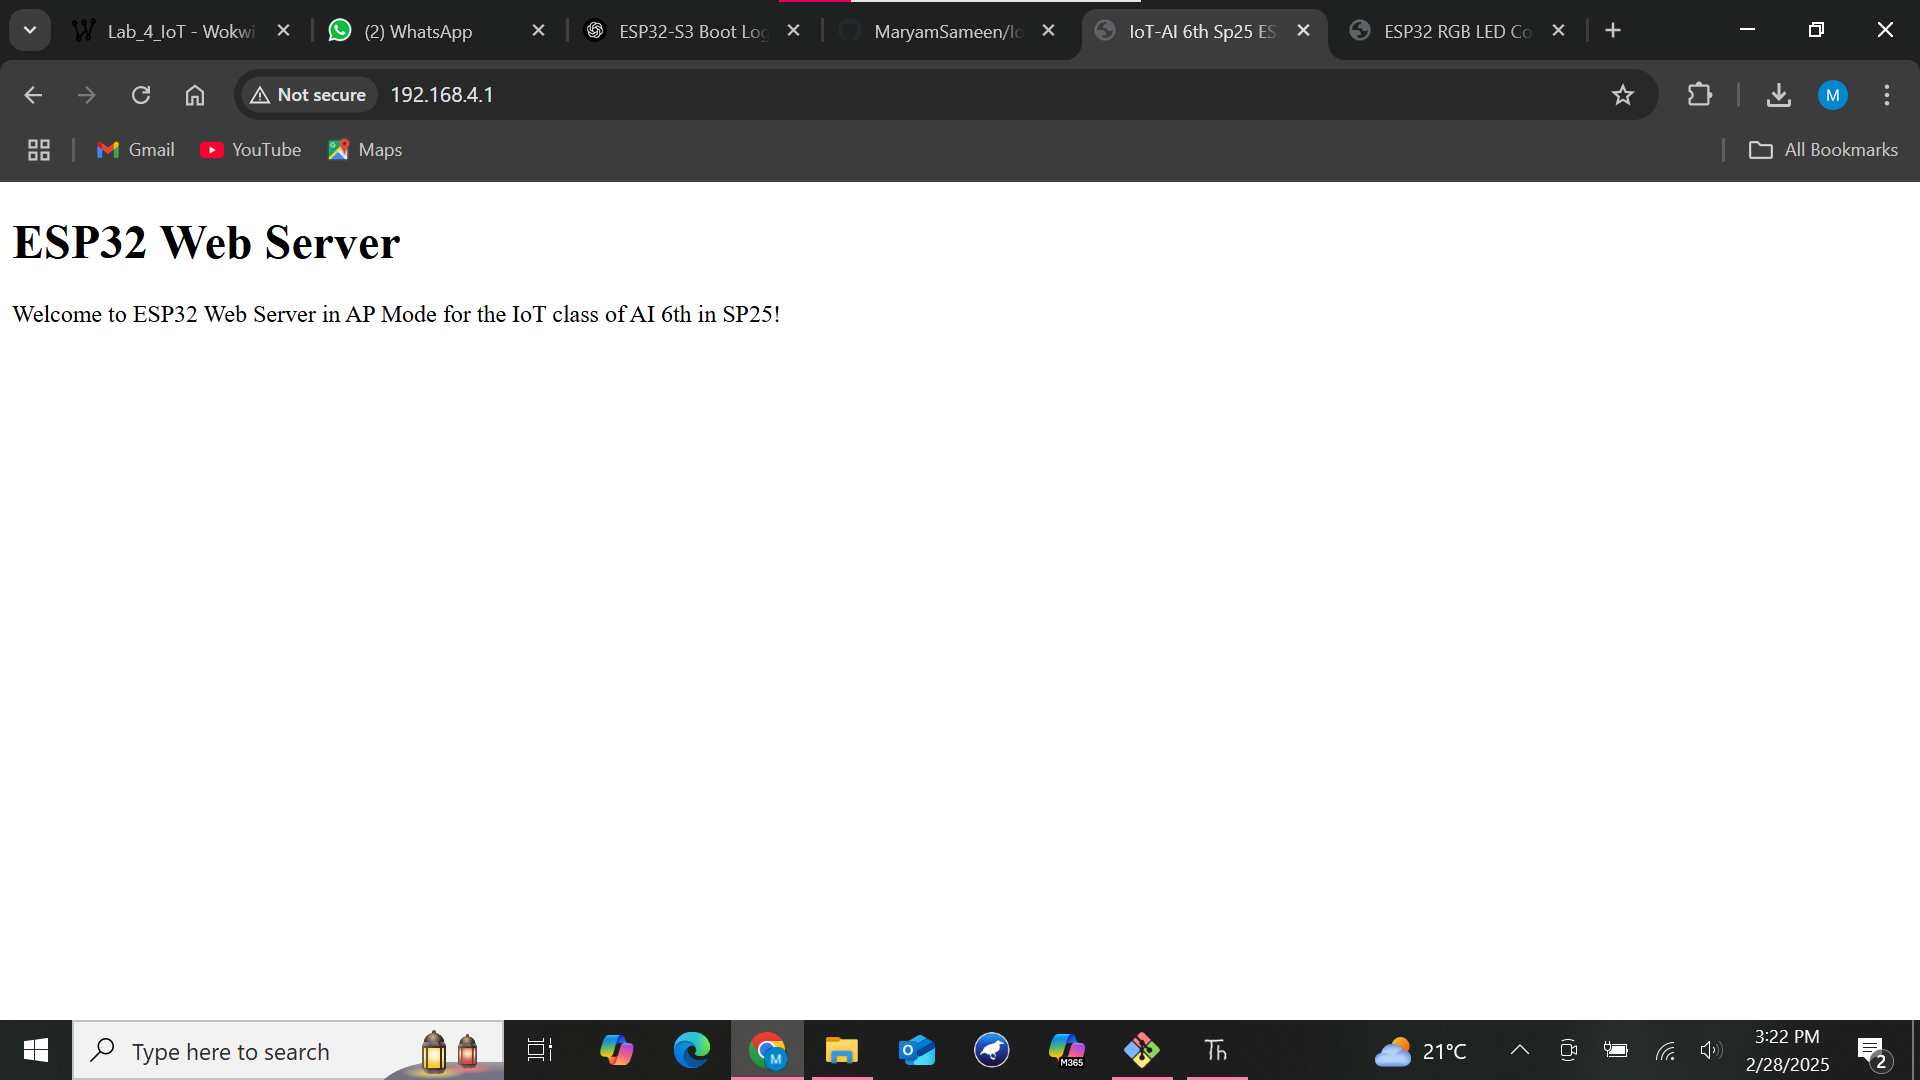
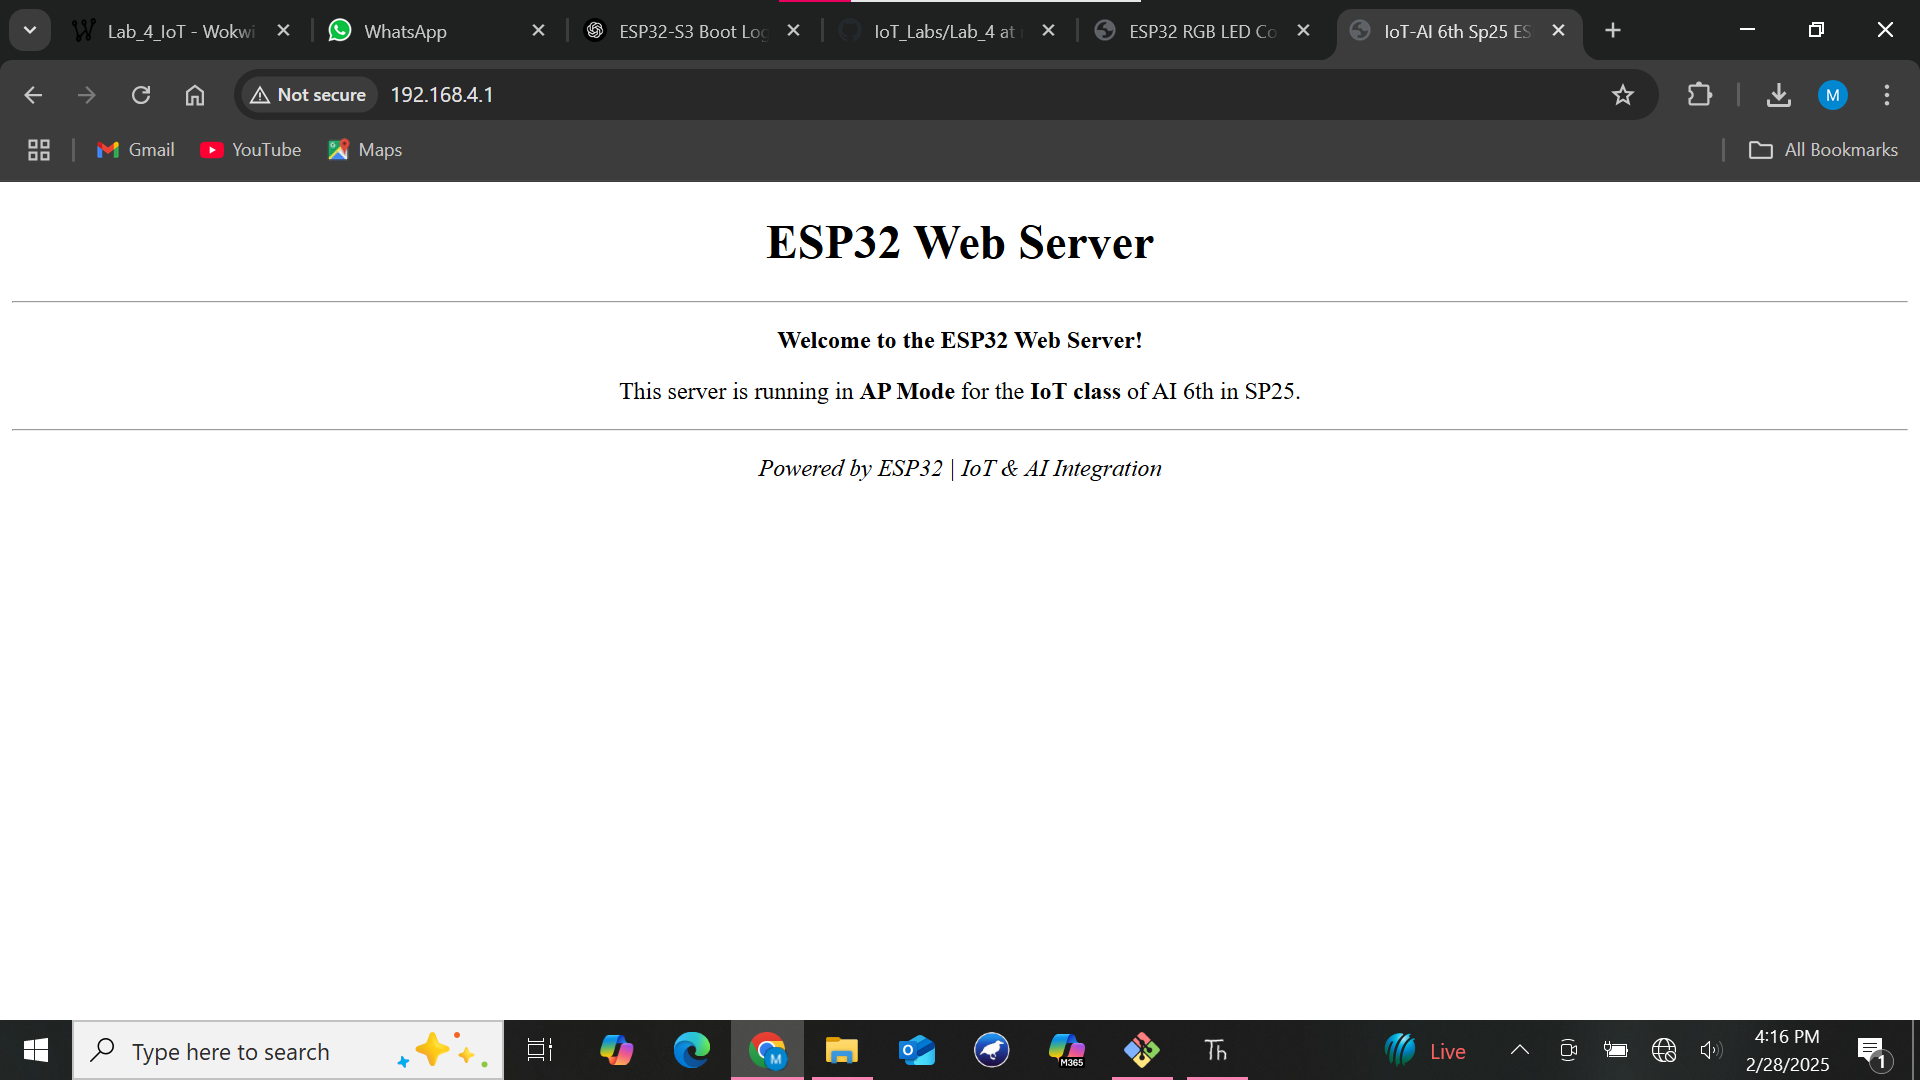
Added Screenshot of rgb_web and run the code

diff --git a/Lab_4/rgb-web.py b/Lab_4/rgb-web.py
@@ -1,3 +1,5 @@
+print("Hello, Maryam!")
+
 import network
 import socket
 import time
@@ -17,44 +19,62 @@ sta.connect(ssid, password)
 while not sta.isconnected():
     time.sleep(1)
 
-print("Connected! IP:", sta.ifconfig()[0])
+print("Connected!Your IP Address to Browse is:", sta.ifconfig()[0])
 
 # Start Web Server
 def web_page():
     html = """<!DOCTYPE html>
     <html>
-    <head><title>ESP32 RGB LED Control</title></head>
+    <head>
+    <title>ESP32 RGB LED Control System</title>
+    </head>
     <body>
-    <h1>ESP32 RGB led Control</h1>
-    <p><a href="/?RGB=red"><button>Turn RGB RED</button></a></p>
-    <p><a href="/?RGB=green"><button>Turn RGB GREEN</button></a></p>
-    <p><a href="/?RGB=blue"><button>Turn RGB BLUE</button></a></p>
+
+    <h1 style="text-align: center;">ESP32 RGB LED Control System</h1>
+    <hr>
+
+    <p style="text-align: center;"><b>Click a button to change the LED color:</b></p>
+
+    <div style="text-align: center;">
+        <p><a href="/?RGB=red"><button>Turn On RED Light</button></a></p>
+        <p><a href="/?RGB=green"><button>Turn On GREEN Light</button></a></p>
+        <p><a href="/?RGB=blue"><button>Turn On BLUE Light</button></a></p>
+    </div>
+
+    <hr>
+    <p style="text-align: center;"><i>ESP32 Web Controlled RGB LED</i></p>
+
     </body>
-    </html>"""
+    </html>
+     """
     return html
 
-s = socket.socket(socket.AF_INET, socket.SOCK_STREAM)
-s.bind((sta.ifconfig()[0], 80))
-s.listen(5)
+soc = socket.socket(socket.AF_INET, socket.SOCK_STREAM)
+soc.bind((sta.ifconfig()[0], 80))
+soc.listen(5)
 
 while True:
-    conn, addr = s.accept()
+    conn, addr = soc.accept()
     print("Connection from:", addr)
     request = conn.recv(1024).decode()
     print("Request:", request)
     
     if "/?RGB=red" in request:
         neo[0] = (255, 0, 0) # set the first pixel to red
-        neo.write()              # write data to all pixels
+        neo.write()              
     elif "/?RGB=green" in request:
         neo[0] = (0, 255, 0) # set the first pixel to green
-        neo.write()              # write data to all pixels
+        neo.write()              
     elif "/?RGB=blue" in request:
         neo[0] = (0, 0, 255) # set the first pixel to blue
-        neo.write()              # write data to all pixels
+        neo.write()              
         
     response = web_page()
     conn.send("HTTP/1.1 200 OK\nContent-Type: text/html\n\n")
     conn.send(response)
     conn.close()
+
+
+
+
 

diff --git a/Lab_4/web-ap.py b/Lab_4/web-ap.py
@@ -8,18 +8,29 @@ ap = network.WLAN(network.AP_IF)
 ap.active(True)
 ap.config(essid=ssid, password=password)
 
-print("Access Point Active, IP:", ap.ifconfig()[0])
+print("Access Point Active of ESP32_Maryam, IP:", ap.ifconfig()[0])
 
 # Start Web Server
 def web_page():
     html = """<!DOCTYPE html>
     <html>
-    <head><title>IoT-AI 6th Sp25 ESP32 Web Server</title></head>
+    <head>
+    <title>IoT-AI 6th Sp25 ESP32 Web Server</title>
+    </head>
     <body>
-    <h1>ESP32 Web Server</h1>
-    <p>Welcome to ESP32 Web Server in AP Mode for the IoT class of AI 6th in SP25!</p>
+
+    <h1 style="text-align: center;">ESP32 Web Server</h1>
+    <hr>
+
+    <p style="text-align: center;"><b>Welcome to the ESP32 Web Server!</b></p>
+    <p style="text-align: center;">This server is running in <b>AP Mode</b> for the <b>IoT class</b> of AI 6th in SP25.</p>
+
+    <hr>
+    <p style="text-align: center;"><i>Powered by ESP32 | IoT & AI Integration</i></p>
+
     </body>
-    </html>"""
+    </html>
+     """
     return html
 
 # Setup Socket Server
